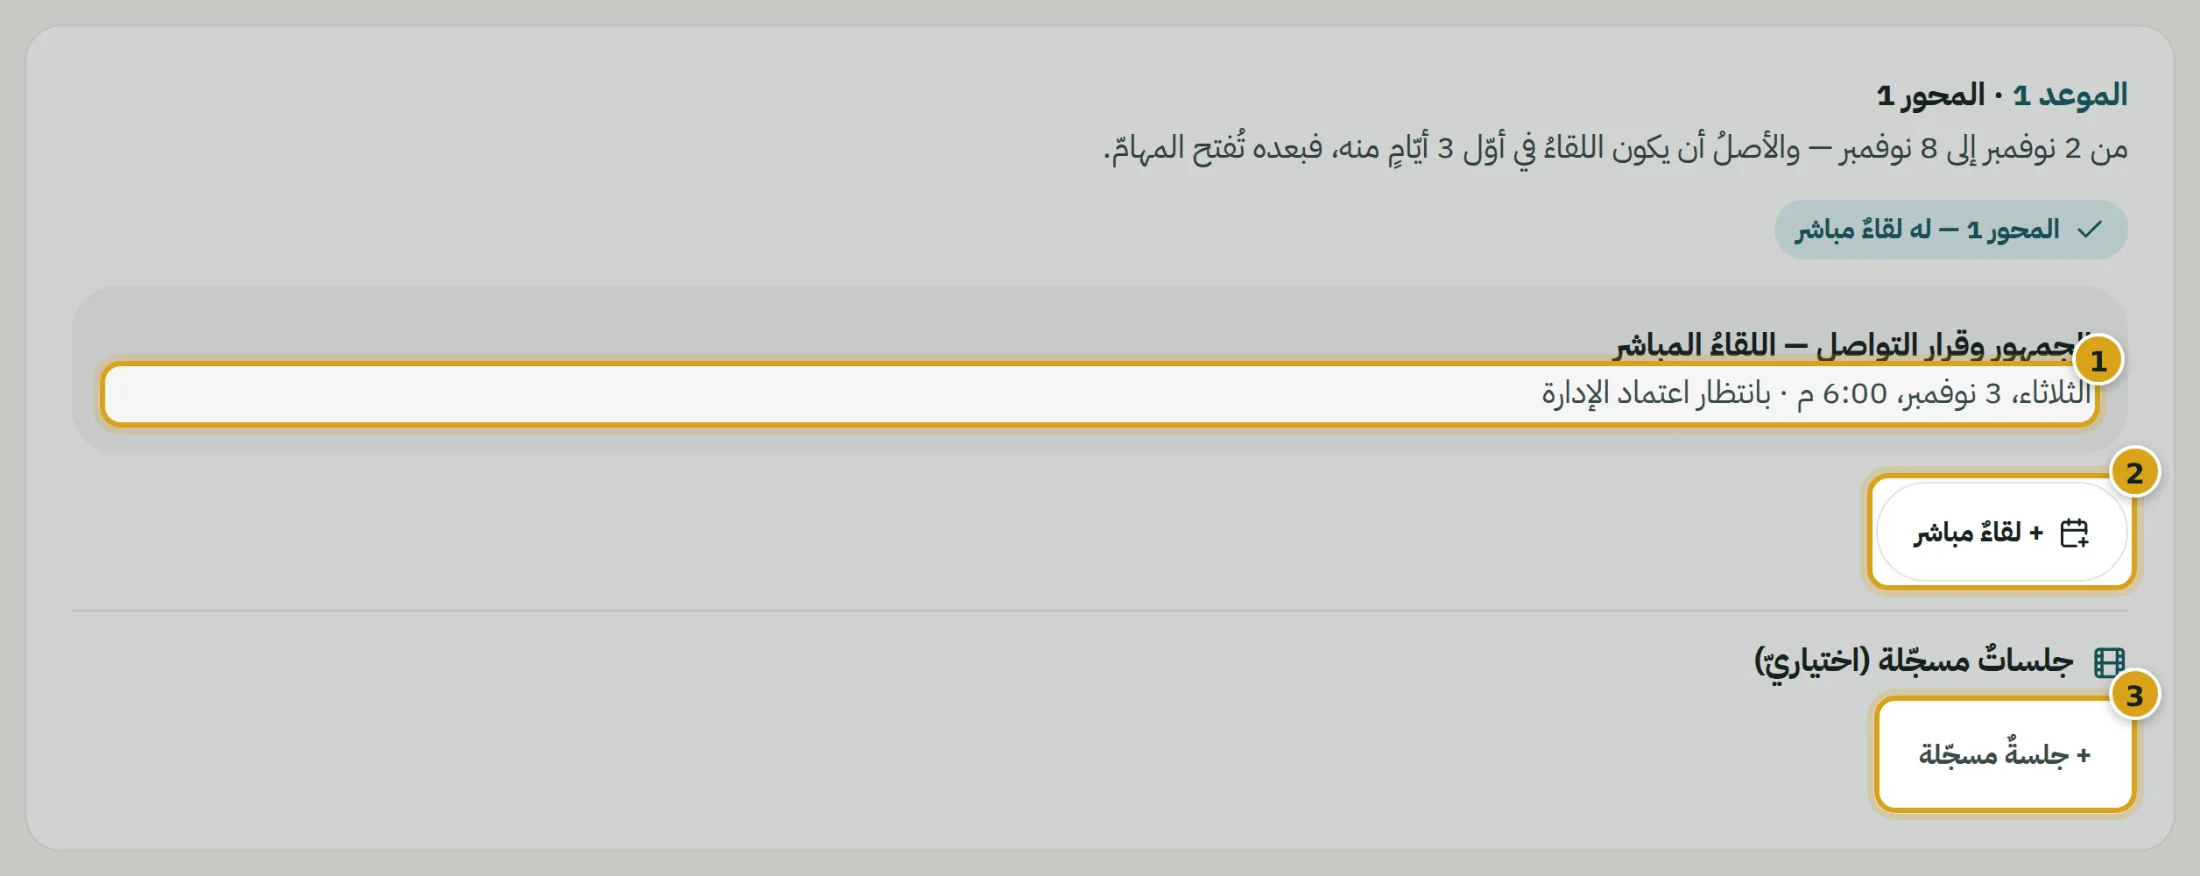
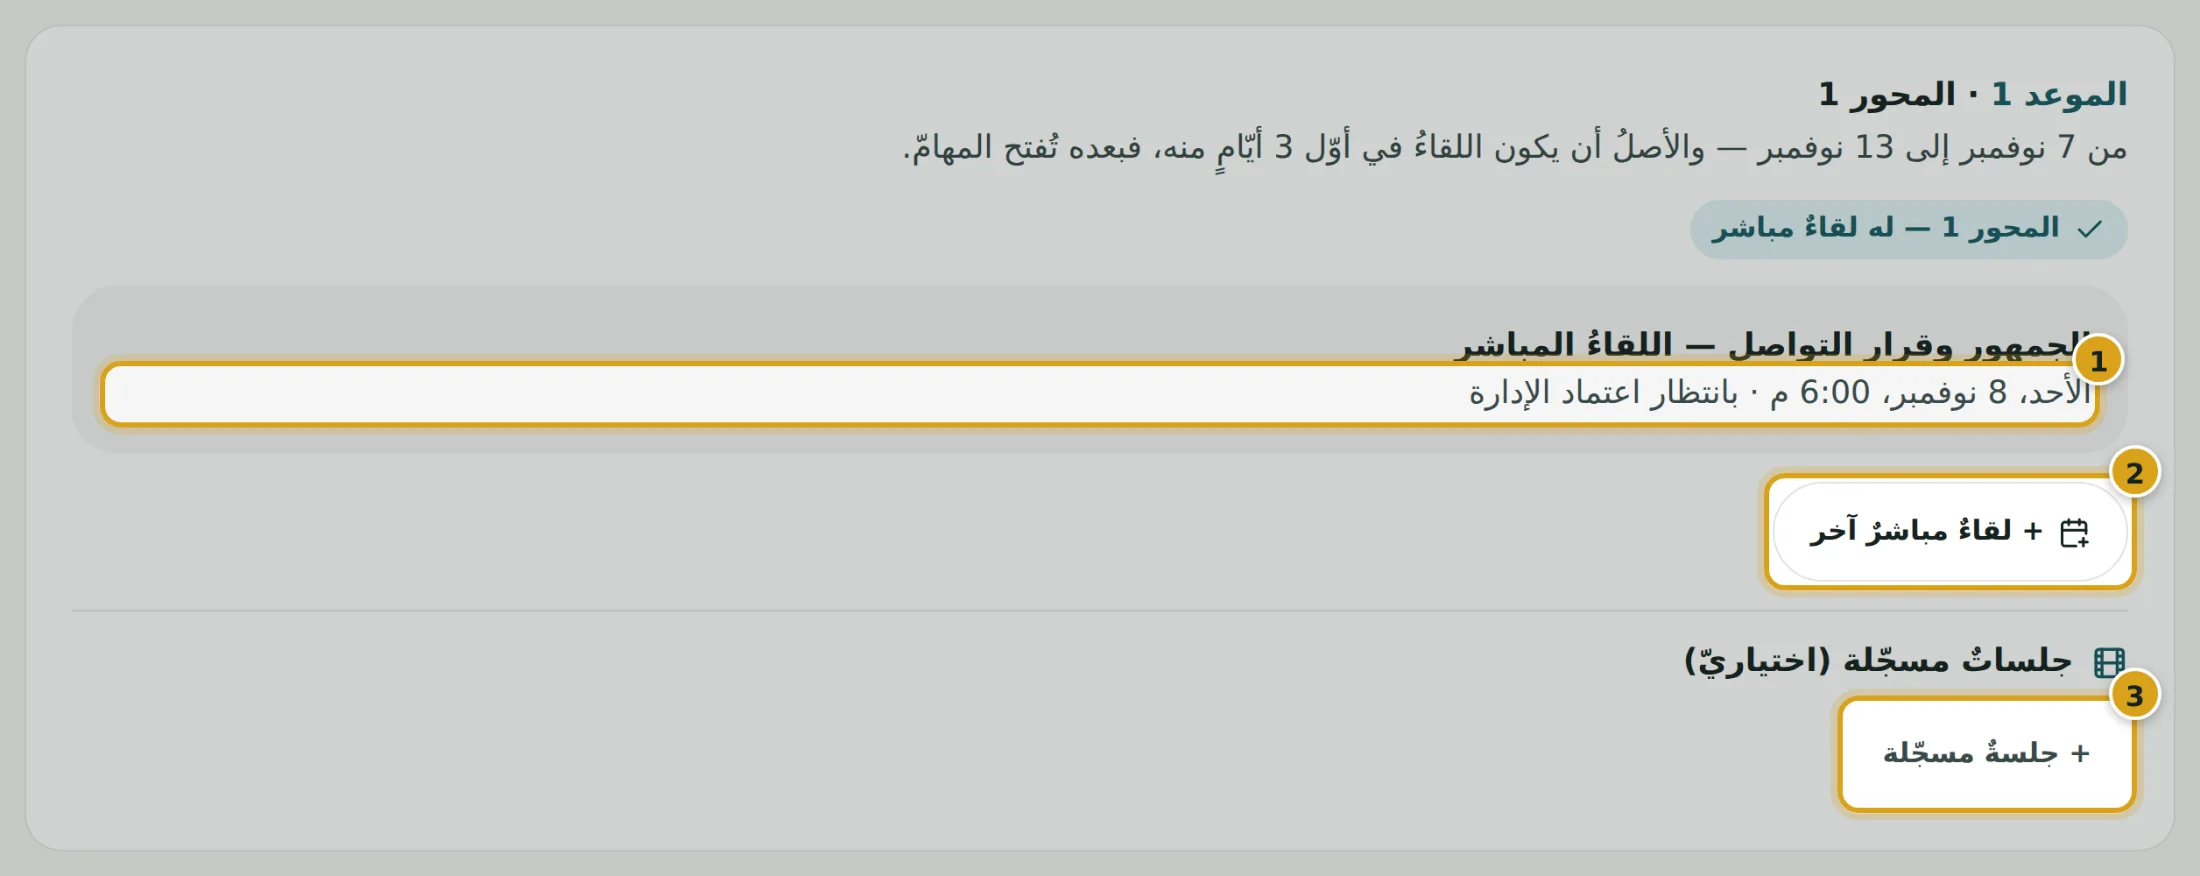
الدليل: لقاءاتٌ بلا عدد ولمحورٍ أو أكثر في وقتها، و«+ محور» يوزّع، ونصيحتا اللقاءات والبدء
· الخطوة الثانية: «في كلّ موعدٍ محورٌ أو أكثر من المتجاورة»، و«+ محور» يوزّع
  المحاورَ بالتساوي ما لم تُرتَّب باليد، و«وزّع المحاورَ بالتساوي» حين يزدحم موعد.
· الخطوة الرابعة: «وأضِف بعد ذلك ما شئت»، والمحاورُ التي يغطّيها اللقاءُ «محورٌ أو أكثر
  من الموعد نفسِه»، ولا يُقبل لقاءٌ لمحورٍ في غير وقته؛ ونصيحةُ «كم لقاءً تضيف؟».
· نصيحةُ «متى تبدأ؟» لشُعب هذا الشتاء: ديسمبر أو أواخرَ نوفمبر على الأقلّ.
· سؤالان في الأسئلة الشائعة: حدُّ اللقاءات، وموعدُ البدء.
· لقطةٌ جديدة `ws-session-tips` (نصائحُ اللقاءات)، وأُعيد تصويرُ `ws-meetings` لأنّ
  زرَّه صار «+ لقاءٌ مباشرٌ آخر» بعد أوّل لقاء — وعُدّل تعليقُها.

لا تغيّرَ في رقمٍ يُقبض أو يُخصم.

Claude-Session: https://claude.ai/code/session_01KvWc79RrumheVsskoZYsA3

diff --git a/src/data/trainer-guide/content.ts b/src/data/trainer-guide/content.ts
@@ -264,31 +264,37 @@ export const GUIDE_SECTIONS: GuideSection[] = [
           { text: 'تاريخُ البدء والانتهاء: مدّةُ الشعبة، وكلُّ موعدٍ ولقاءٍ بعدها يقع داخلها.' },
         ],
       },
+      /* نصيحةُ البدء — «نصيحةً فقط… واجعلها ودودةً جدّا» (صاحب المنصّة، ٤ أكتوبر ٢٠٢٦).
+         ولشُعب هذا الشتاء وحدَها، كما تقولها الخطوةُ نفسُها (`start-advice.ts`) */
+      { kind: 'callout', tone: 'tip', title: 'متى تبدأ؟ اقتراحٌ ودّيّ', text: 'لشُعب هذا الشتاء: لو بدأت شعبتُك في ديسمبر — أو في أواخر نوفمبر على الأقلّ — لاتّسع لنا الوقتُ لنعرّف الناسَ بدورتك ونسوّق لها قبل أن تبدأ. اقتراحٌ لا شرط، والقرارُ قرارُك — وتجده بجانب تاريخ البدء.' },
       { kind: 'callout', tone: 'public', title: 'هذا ما يراه الناس — ولك أن تغيّره', text: 'اسمُ الشعبة يظهر للناس في صفحة الدورة لحظةَ تحفظه، بلا اعتماد. والنبذةُ تظهر بعد أن نعتمد الخطّة. أمّا السعرُ والسعةُ والإعدادُ الماليّ فبيد الإدارة.' },
       { kind: 'figure', shot: 'ws-modules', alt: 'الخطوةُ الثانية: موعدُ المحور الأوّل ومحورُه مفتوحا', caption: '1 بدايةُ الموعد ونهايتُه · 2 «عنوان المحور» · 3 «مخرج المحور» · 4 المحتوى النظريّ' },
       {
         kind: 'steps',
         title: 'الخطوة الثانية — «المحاور ومواعيدها»',
         items: [
-          { text: 'الشعبةُ مقسومةٌ مواعيد — أربعةٌ على الأقلّ — ولكلّ موعدٍ محورٌ أو محوران متجاوران.', detail: '«اجمع الموعدين» يضمّ موعدين في موعد، و«افصلهما في موعدين» يفرّقهما، و«أعِد توزيعَ المواعيد» يقسم المدّةَ من جديد.' },
+          { text: 'الشعبةُ مقسومةٌ مواعيد — أربعةٌ على الأقلّ — وفي كلّ موعدٍ محورٌ أو أكثر من المحاور المتجاورة.', detail: '«اجمع الموعدين» يضمّ موعدين في موعد، و«افصلهما في موعدين» يفرّقهما، و«أعِد توزيعَ المواعيد» يقسم المدّةَ من جديد.' },
           { text: 'اضغط اسمَ المحور ليُفتح: عنوانُه، ومخرجُه (ما يستطيعه المتعلّمُ بعده)، والتطبيقُ العمليّ، وما يسلّمه إن وُجد.' },
-          { text: 'واكتب المحتوى النظريّ الذي يقرؤه المتعلّم في المنصّة — أو «أو أرفِق ملفّا بدلا من الكتابة».', detail: 'المحورُ يُحسب مكتملا بأربعين حرفا من الشرح أو بملفٍّ مرفق. و«+ محور» يضيف محورا من عندك.' },
+          { text: 'واكتب المحتوى النظريّ الذي يقرؤه المتعلّم في المنصّة — أو «أو أرفِق ملفّا بدلا من الكتابة».', detail: 'المحورُ يُحسب مكتملا بأربعين حرفا من الشرح أو بملفٍّ مرفق. و«+ محور» يضيف محورا من عندك، فتتوزّع المحاورُ على المواعيد بالتساوي ما لم تكن رتّبتَها بيدك. وإن ازدحم موعدٌ قيل لك، و«وزّع المحاورَ بالتساوي» يوزّعها بضغطة.' },
         ],
       },
       { kind: 'figure', shot: 'ws-workbooks', alt: 'الخطوةُ الثالثة: كرّاسةُ الدورة الواحدة وموضعُ كلّ محورٍ فيها', caption: '1 رابطُ الكرّاسة — أو ارفع ملفّا بدلا منه · 2 أين يبدأ المحورُ فيها' },
       { kind: 'p', text: 'الخطوة الثالثة — «الكرّاسة»: كرّاسةٌ واحدةٌ للدورة كلِّها، فيها المحاورُ بترتيبها — ملفٌّ ترفعه أو رابطٌ يبدأ بـ https://. واكتب لكلّ محورٍ أين يبدأ فيها («ص ٥» أو «القسم الثاني»): يراه المتعلّمُ بجانب المحور في رحلته، فيتبعها محورا محورا. وتُفتح له أوّلَ يومٍ في الشعبة.' },
       { kind: 'callout', tone: 'tip', title: 'كرّاسةٌ يسهل اتّباعُها', text: 'ابدأ كلَّ محورٍ بصفحةٍ جديدةٍ عنوانُها رقمُه واسمُه، ورقّم الصفحات، وضع في أوّلها فهرسا بالمحاور وصفحاتها. وإن كانت لك كرّاسةٌ لكلّ محورٍ من قبل فاجمعها في ملفٍّ واحدٍ بالترتيب.' },
-      { kind: 'figure', shot: 'ws-meetings', alt: 'الخطوةُ الرابعة: لقاءُ المحور الأوّل بانتظار الاعتماد', caption: '1 لقاءٌ أرسلتَه وينتظر الاعتماد · 2 «+ لقاءٌ مباشر» · 3 «+ جلسةٌ مسجّلة» (اختياريّ)' },
+      { kind: 'figure', shot: 'ws-meetings', alt: 'الخطوةُ الرابعة: لقاءُ المحور الأوّل بانتظار الاعتماد', caption: '1 لقاءٌ أرسلتَه وينتظر الاعتماد · 2 «+ لقاءٌ مباشرٌ آخر» — ما شئت منها · 3 «+ جلسةٌ مسجّلة» (اختياريّ)' },
       {
         kind: 'steps',
         title: 'الخطوة الرابعة — «اللقاءات»',
         items: [
-          { text: 'لكلّ محورٍ لقاءٌ مباشرٌ واحدٌ على الأقلّ داخلَ موعده — والأفضلُ في أوّل ثلاثة أيّامٍ منه، فبعده تُفتح المهامّ.' },
-          { text: 'اضغط «+ لقاءٌ مباشر»: العنوان، واليوم، ومن الساعة إلى الساعة بتوقيت عمّان، والمحورُ أو المحوران، ثمّ «أرسِلْه للاعتماد».', detail: 'اللقاءُ ساعتان على الأقلّ. وباعتماده يُنشأ اجتماعُ Zoom تلقائيّا.' },
+          { text: 'لكلّ محورٍ لقاءٌ مباشرٌ واحدٌ على الأقلّ داخلَ موعده — والأفضلُ في أوّل ثلاثة أيّامٍ منه، فبعده تُفتح المهامّ. وأضِف بعد ذلك ما شئت من اللقاءات.' },
+          { text: 'اضغط «+ لقاءٌ مباشر»: العنوان، واليوم، ومن الساعة إلى الساعة بتوقيت عمّان، والمحاورُ التي يغطّيها — محورٌ أو أكثر من الموعد نفسِه — ثمّ «أرسِلْه للاعتماد».', detail: 'اللقاءُ ساعتان على الأقلّ، ويومُه داخلَ موعد محاوره: لا يُقبل لقاءٌ لمحورٍ في غير وقته. وباعتماده يُنشأ اجتماعُ Zoom تلقائيّا.' },
           { text: 'والجلساتُ المسجّلة اختياريّة: رابطٌ ومحورٌ ويومٌ تُفتح فيه للمتعلّم.' },
         ],
       },
       { kind: 'figure', shot: 'ws-live-form', alt: 'نموذجُ إضافة لقاءٍ مباشر', caption: 'نموذجُ اللقاء المباشر — ثمّ «أرسِلْه للاعتماد» (1)' },
+      { kind: 'figure', shot: 'ws-session-tips', alt: 'نصائحُ للقاءات في رأس خطوة «اللقاءات»', caption: '«نصائحُ للقاءاتك» في رأس الخطوة (1): ما شئت من اللقاءات، كلٌّ في وقت محاوره — ولا تُكثر.' },
+      /* «لا تُكثر من اللقاءات، أو اجمعها — أو اترك ذلك لي حين أعتمد» (٤ أكتوبر ٢٠٢٦) */
+      { kind: 'callout', tone: 'tip', title: 'كم لقاءً تضيف؟', text: 'ما شئت — ولكن لا تُكثر: لقاءٌ لكلّ محورٍ يكفي غالبا، ولقاءٌ واحدٌ قد يجمع محورين أو أكثر من الموعد نفسِه فيخفّ على المتعلّم. وفي رأس الخطوة «نصائحُ للقاءاتك» تذكّرك بهذا، ونراجع لقاءاتِك معك قبل الاعتماد.' },
       { kind: 'figure', shot: 'ws-tab-tasks', alt: 'الخطوةُ الخامسة: لسانُ المهامّ العمليّة ونموذجُ مهمّةٍ بمرفقٍ نوعُه ملفّ', caption: '1 الألسنةُ الثلاثة — والنقطةُ الذهبيّة على ما لم يتمّ · 2 تعليماتُ اللسان وتوصياتُه · 3 نوعُ المرفق أوّلا: «ملفّ» يُظهر «ارفع الملفّ»، وغيرُه خانةَ الرابط' },
       {
         kind: 'steps',
@@ -594,4 +600,6 @@ export const FAQ: FaqItem[] = [
   { q: 'أريد تغييرَ نبذتي في صفحة المدرّبين.', a: 'هذه بيد الإدارة: راسِلنا بالنصّ الذي تريده.' },
   { q: 'متى تُصرف مستحقّاتي؟', a: 'يُعتمد كشفُ الشعبة خلال 15 يوما من انتهائها، ويُصرف خلال 30 يوما من اعتماده، ولا يتجاوز 45 يوما من انتهائها. وقبل ذلك أدخِل حسابك البنكيّ في «مستحقاتي».' },
   { q: 'كيف أبدأ لقائي في Zoom مضيفا؟', a: 'من مساحة الشعبة، خطوة «اللقاءات»: «ابدأ اللقاء مضيفا». لا من «افتح الجلسة» في الرئيسية.' },
+  { q: 'هل لعدد لقاءاتي المباشرة حدّ؟', a: 'لا. أضِف ما شئت، واربط كلَّ لقاءٍ بمحورٍ أو أكثر من موعده — على أن يقع في وقت محاوره. ولا تُكثر: لقاءٌ لكلّ محورٍ يكفي غالبا — [خطوة «اللقاءات»](#workspace).' },
+  { q: 'متى أبدأ شعبتي؟', a: 'المدّةُ قرارُك. ولشُعب هذا الشتاء نقترح ديسمبر، أو أواخرَ نوفمبر على الأقلّ — فيتّسع لنا الوقتُ لنسوّق دورتك قبل أن تبدأ.' },
 ]

diff --git a/scripts/trainer-guide/capture.ts b/scripts/trainer-guide/capture.ts
@@ -386,6 +386,20 @@ const ACTIVE: Shot[] = [
     },
   },
   {
+    /* نصائحُ اللقاءات في رأس الخطوة — بلطفٍ ولا تمنع (٤ أكتوبر ٢٠٢٦) */
+    name: 'ws-session-tips',
+    async run(e) {
+      const p = e.page
+      await open(e, `/trainer/cohort/${await cohortId(e, 'الدفعةُ الأولى')}`)
+      await step(e, 4)
+      const title = p.getByText('نصائحُ للقاءاتك').first()
+      await shoot(e, {
+        name: 'ws-session-tips', clip: p.locator('section').filter({ has: title }).first(), clipPad: 14,
+        marks: [{ target: title, n: 1, pad: 5 }],
+      })
+    },
+  },
+  {
     name: 'ws-live-form',
     async run(e) {
       const p = e.page

diff --git a/src/data/trainer-guide/shots.ts b/src/data/trainer-guide/shots.ts
@@ -144,6 +144,10 @@ export const GUIDE_SHOTS: Record<string, { w: number; h: number }> = {
     "w": 2200,
     "h": 2678
   },
+  "ws-session-tips": {
+    "w": 2200,
+    "h": 821
+  },
   "ws-sources": {
     "w": 2200,
     "h": 688
